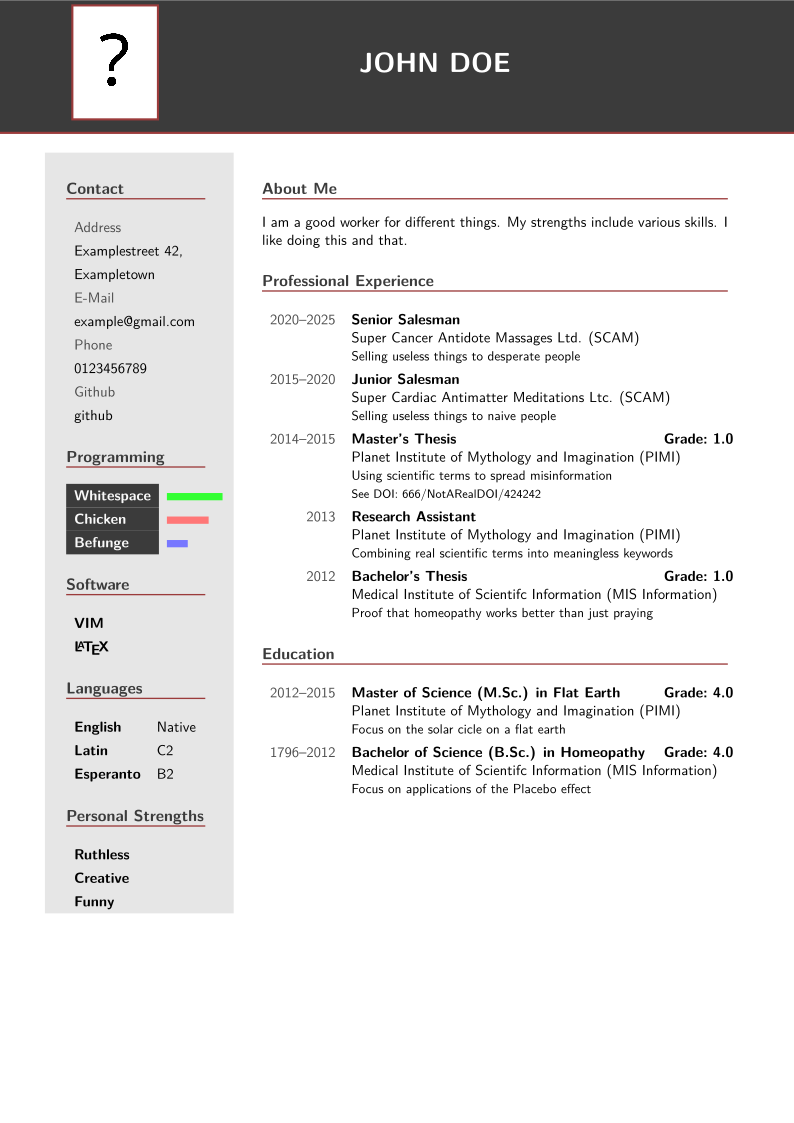
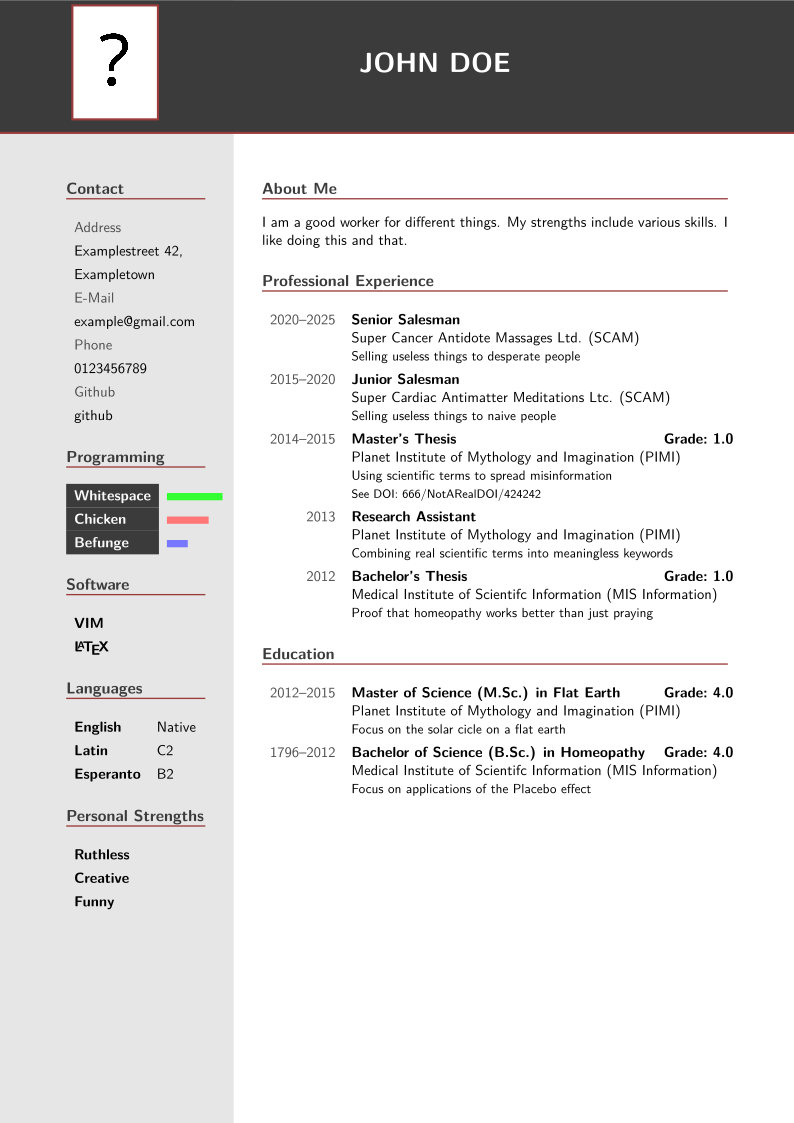
Left column spans whole page now

Changed region(s): [[0.0, 0.0935, 0.3023, 1.0]]

diff --git a/example_cv.tex b/example_cv.tex
@@ -67,6 +67,8 @@ I am a good worker for different things. My strengths include various skills. I 
     \event{1796--2012}{Bachelor of Science (B.Sc.) in Homeopathy \hfill \grade{4.0}}{Medical Institute of Scientifc Information (MIS Information)\newline{\small Focus on applications of the Placebo effect}}
 \end{events}
 
+\vspace{\paperheight}
+
 \end{paracol}
 
 \end{document}

diff --git a/medercv2025_creator.py b/medercv2025_creator.py
@@ -175,6 +175,8 @@ class CurriculumVitae:
 
         _latex_lines += [
             "",
+            r"\vspace{\paperheight}",  # Needed for correct coloring
+            "",
             r"\end{paracol}",
             "",
             r"\end{document}"

diff --git a/README.md b/README.md
@@ -10,7 +10,7 @@ import medercv2025_creator as cv_creator
 # Load curriculum vitae from json
 curriculum_vitae = cv_creator.load("example_cv.json")
 # Convert the curriculum vitae to LaTeX and save it
-save(curriculum_vitae, "example_cv.tex")
+cv_creator.save(curriculum_vitae, "example_cv.tex")
 ```
 The output looks like this:
 ![Preview of example currivulum vitaet](example_cv_preview.png)
